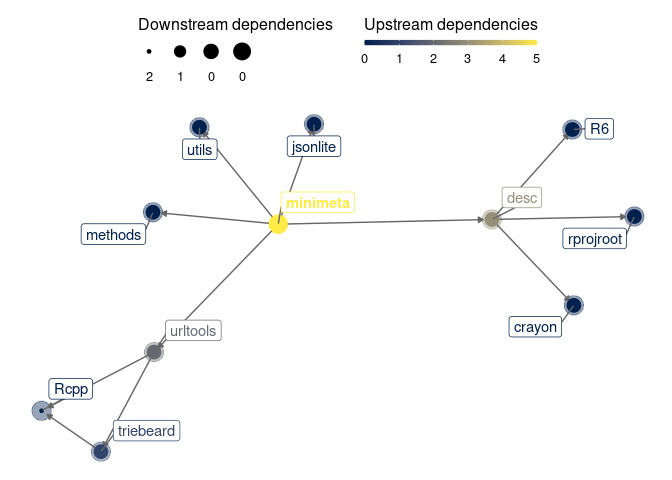
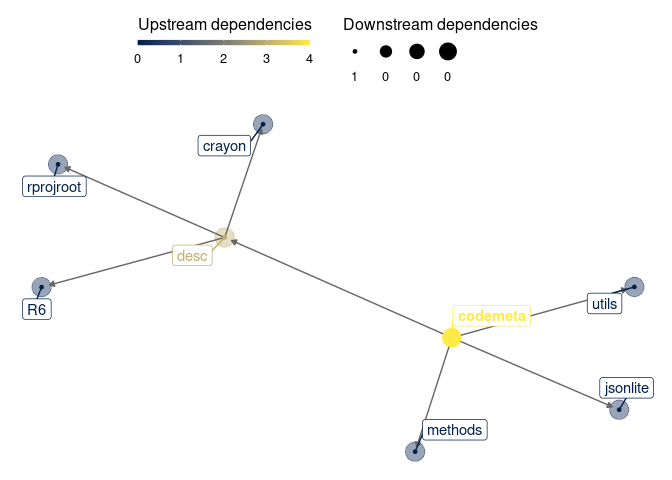
rebuild readme

diff --git a/README.md b/README.md
@@ -1,38 +1,38 @@
 
 <!-- README.md is generated from README.Rmd. Please edit that file -->
 
-# minimeta
+# codemeta
 
 <!-- badges: start -->
 
 [![R build
-status](https://github.com/cboettig/minimeta/workflows/R-CMD-check/badge.svg)](https://github.com/cboettig/minimeta/actions)
+status](https://github.com/cboettig/codemeta/workflows/R-CMD-check/badge.svg)](https://github.com/cboettig/codemeta/actions)
 [![Codecov test
-coverage](https://codecov.io/gh/cboettig/minimeta/branch/master/graph/badge.svg)](https://codecov.io/gh/cboettig/minimeta?branch=master)
+coverage](https://codecov.io/gh/cboettig/codemeta/branch/master/graph/badge.svg)](https://codecov.io/gh/cboettig/codemeta?branch=master)
 <!-- badges: end -->
 
-`minimeta` is a smaller, simpler `codemetar`.
+`codemeta` is a smaller, simpler `codemetar`.
 
 ## Installation
 
-You can install the released version of minimeta from
+You can install the released version of codemeta from
 [CRAN](https://CRAN.R-project.org) with:
 
 ``` r
-install.packages("minimeta")
+install.packages("codemeta")
 ```
 
 And the development version from [GitHub](https://github.com/) with:
 
 ``` r
 # install.packages("devtools")
-devtools::install_github("cboettig/minimeta")
+devtools::install_github("cboettig/codemeta")
 ```
 
 ## Example
 
 ``` r
-minimeta::write_codemeta()
+codemeta::write_codemeta()
 ```
 
 ## Dependencies
